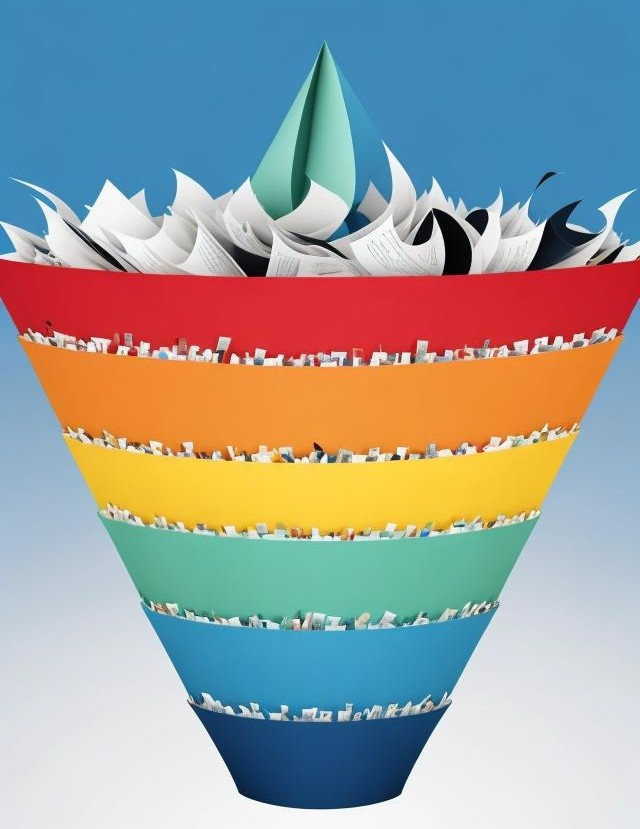
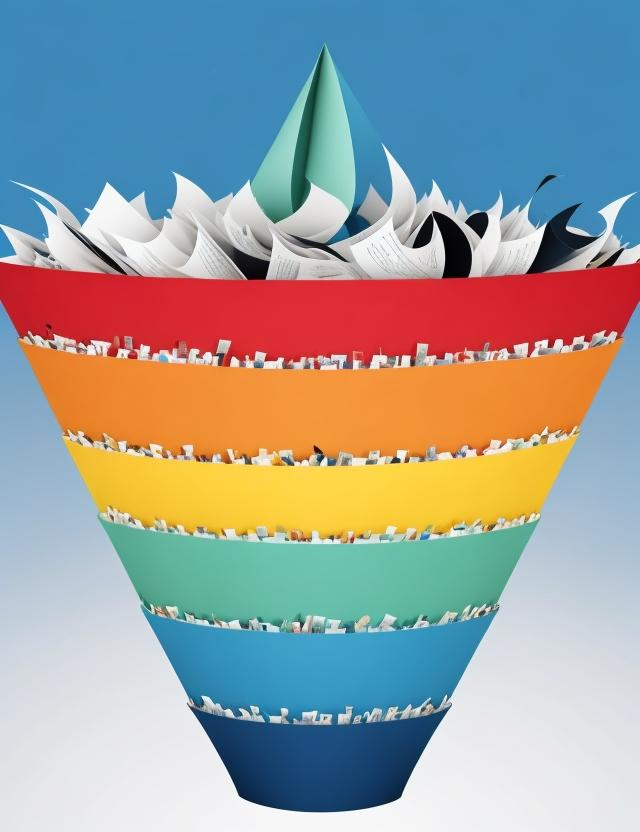
Scale pictures

diff --git a/_includes/portfolio.html b/_includes/portfolio.html
@@ -15,7 +15,7 @@
         <div class="row no-gutter">
             <div class="col-lg-4 col-sm-6">
                 <a href="https://github.com/p-a-kreer/TTH" class="portfolio-box">
-                    <img src="img/portfolio/Pentagon.jpeg" class="img-responsive" alt="">
+                    <img src="img/portfolio/Pentagon.jpg" class="img-responsive" alt="">
                     <div class="portfolio-box-caption">
                         <div class="portfolio-box-caption-content">
                             <div class="project-category text-faded">
